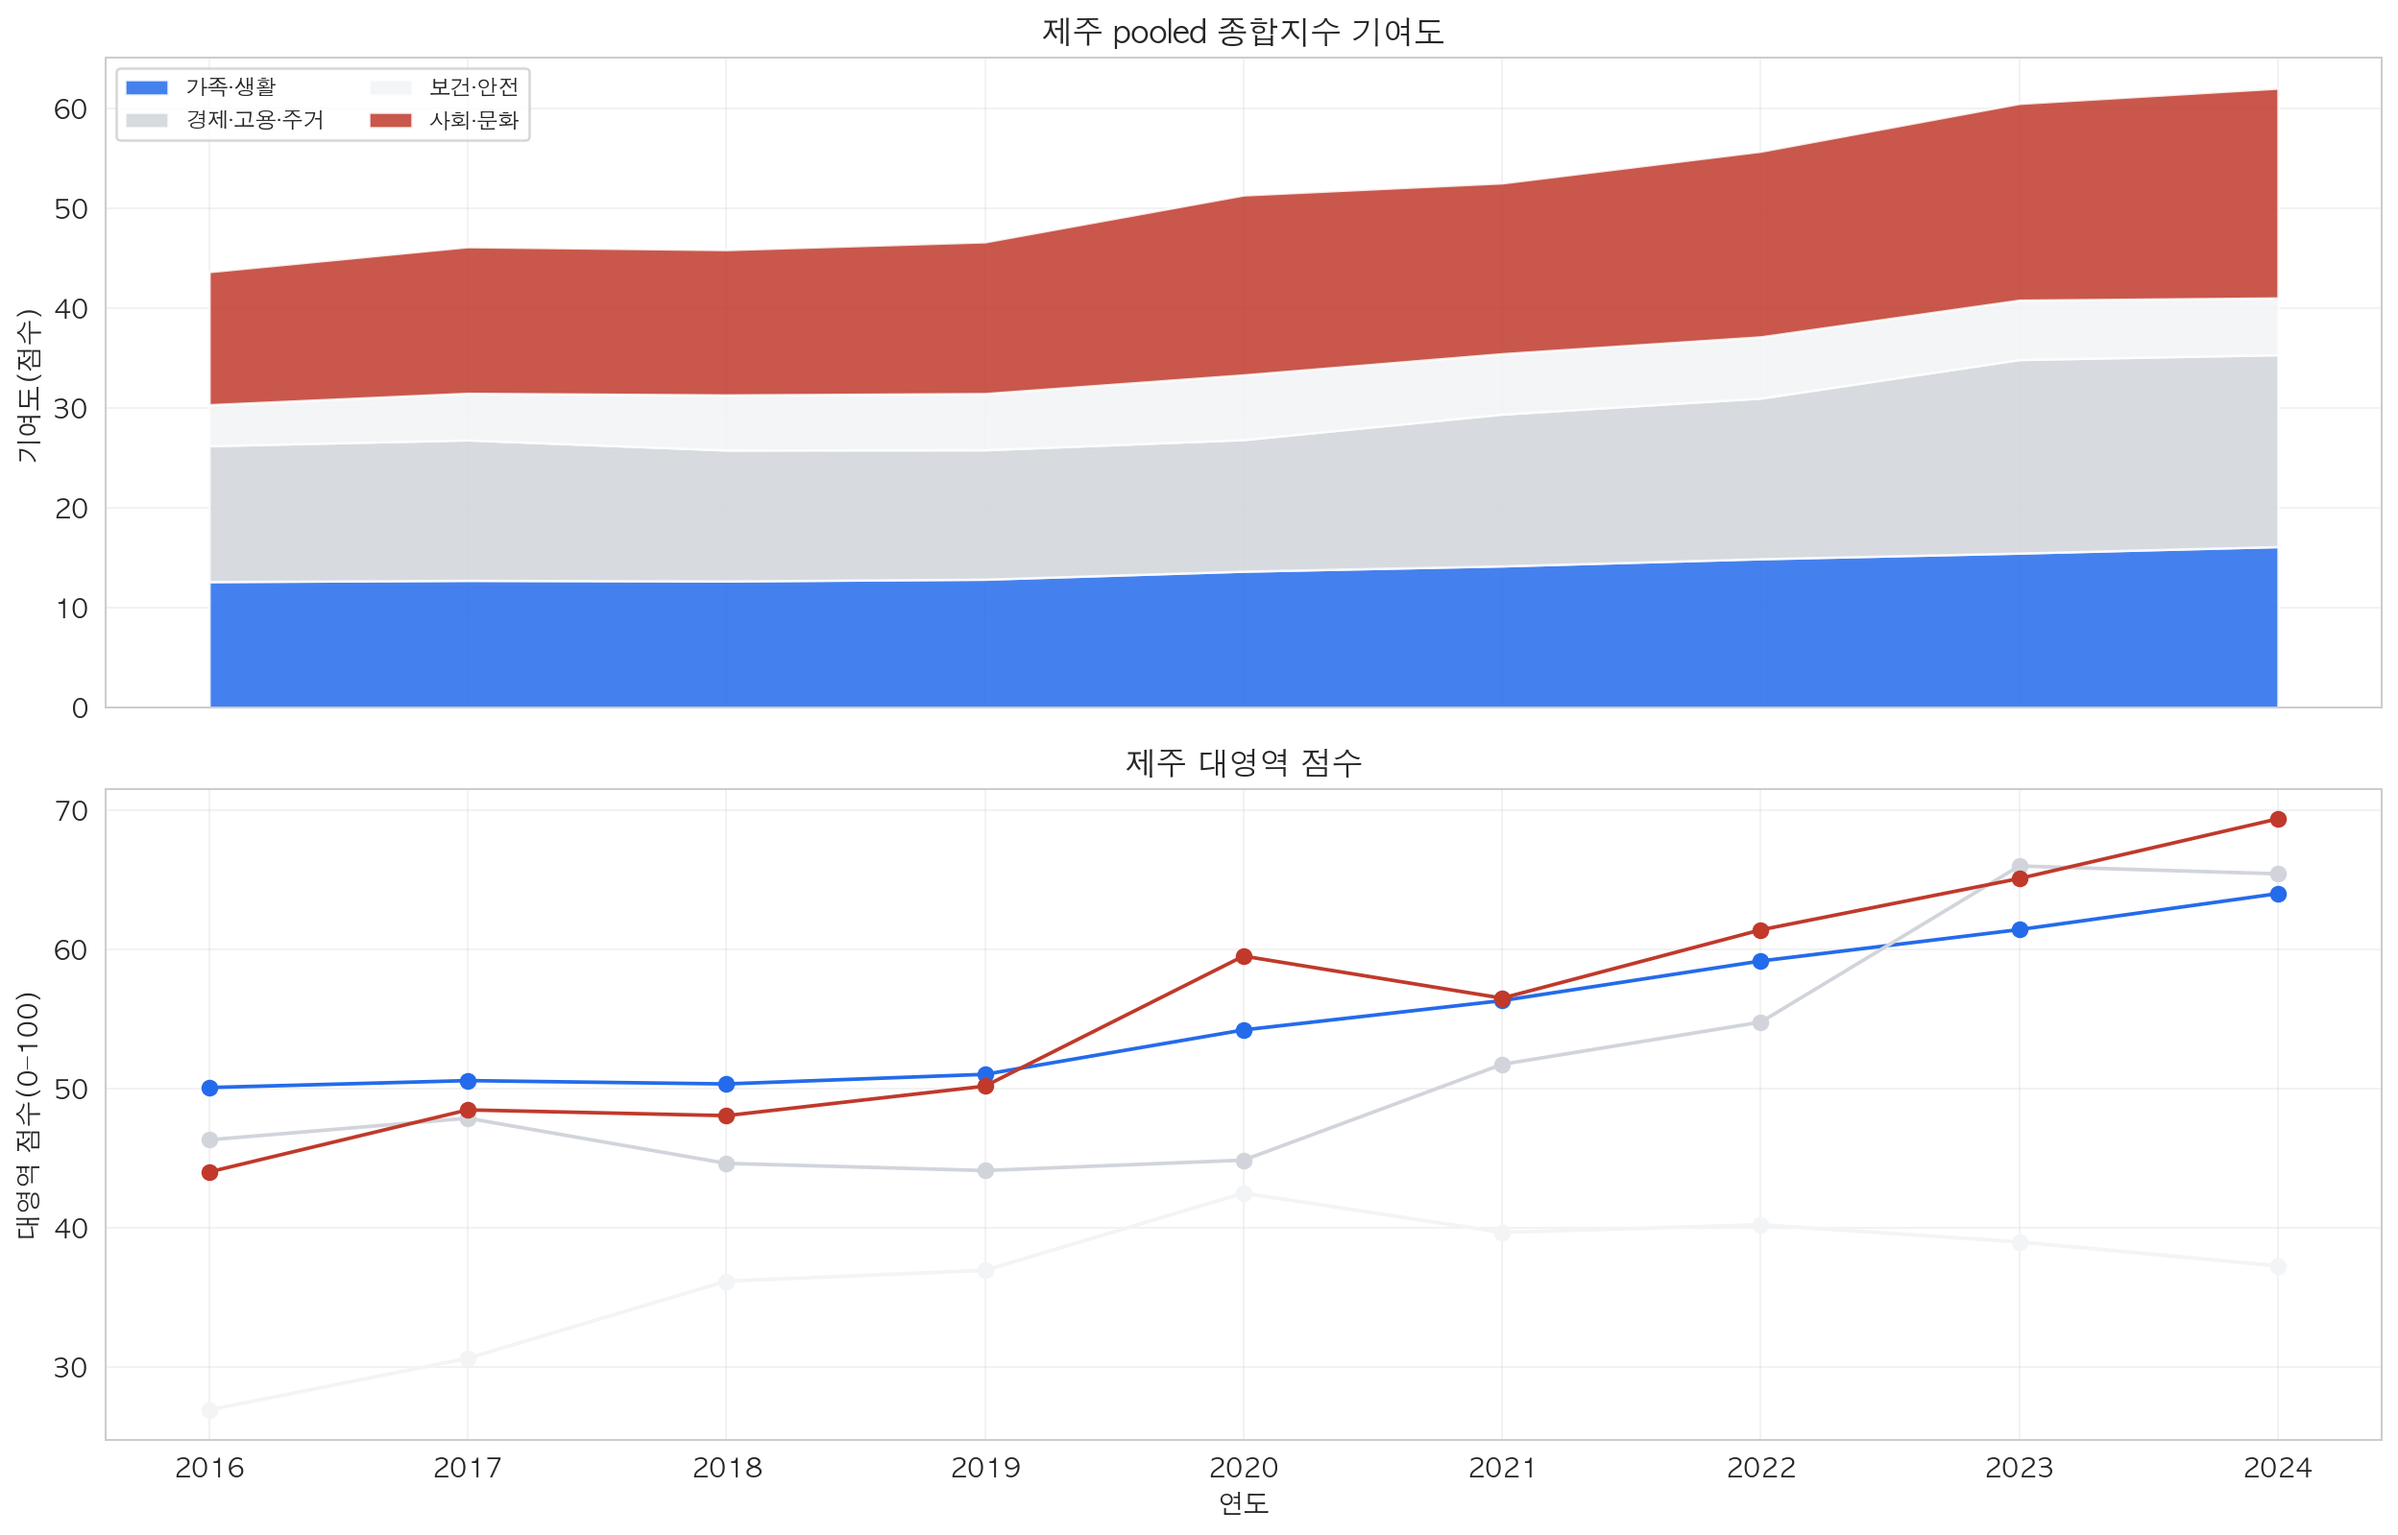
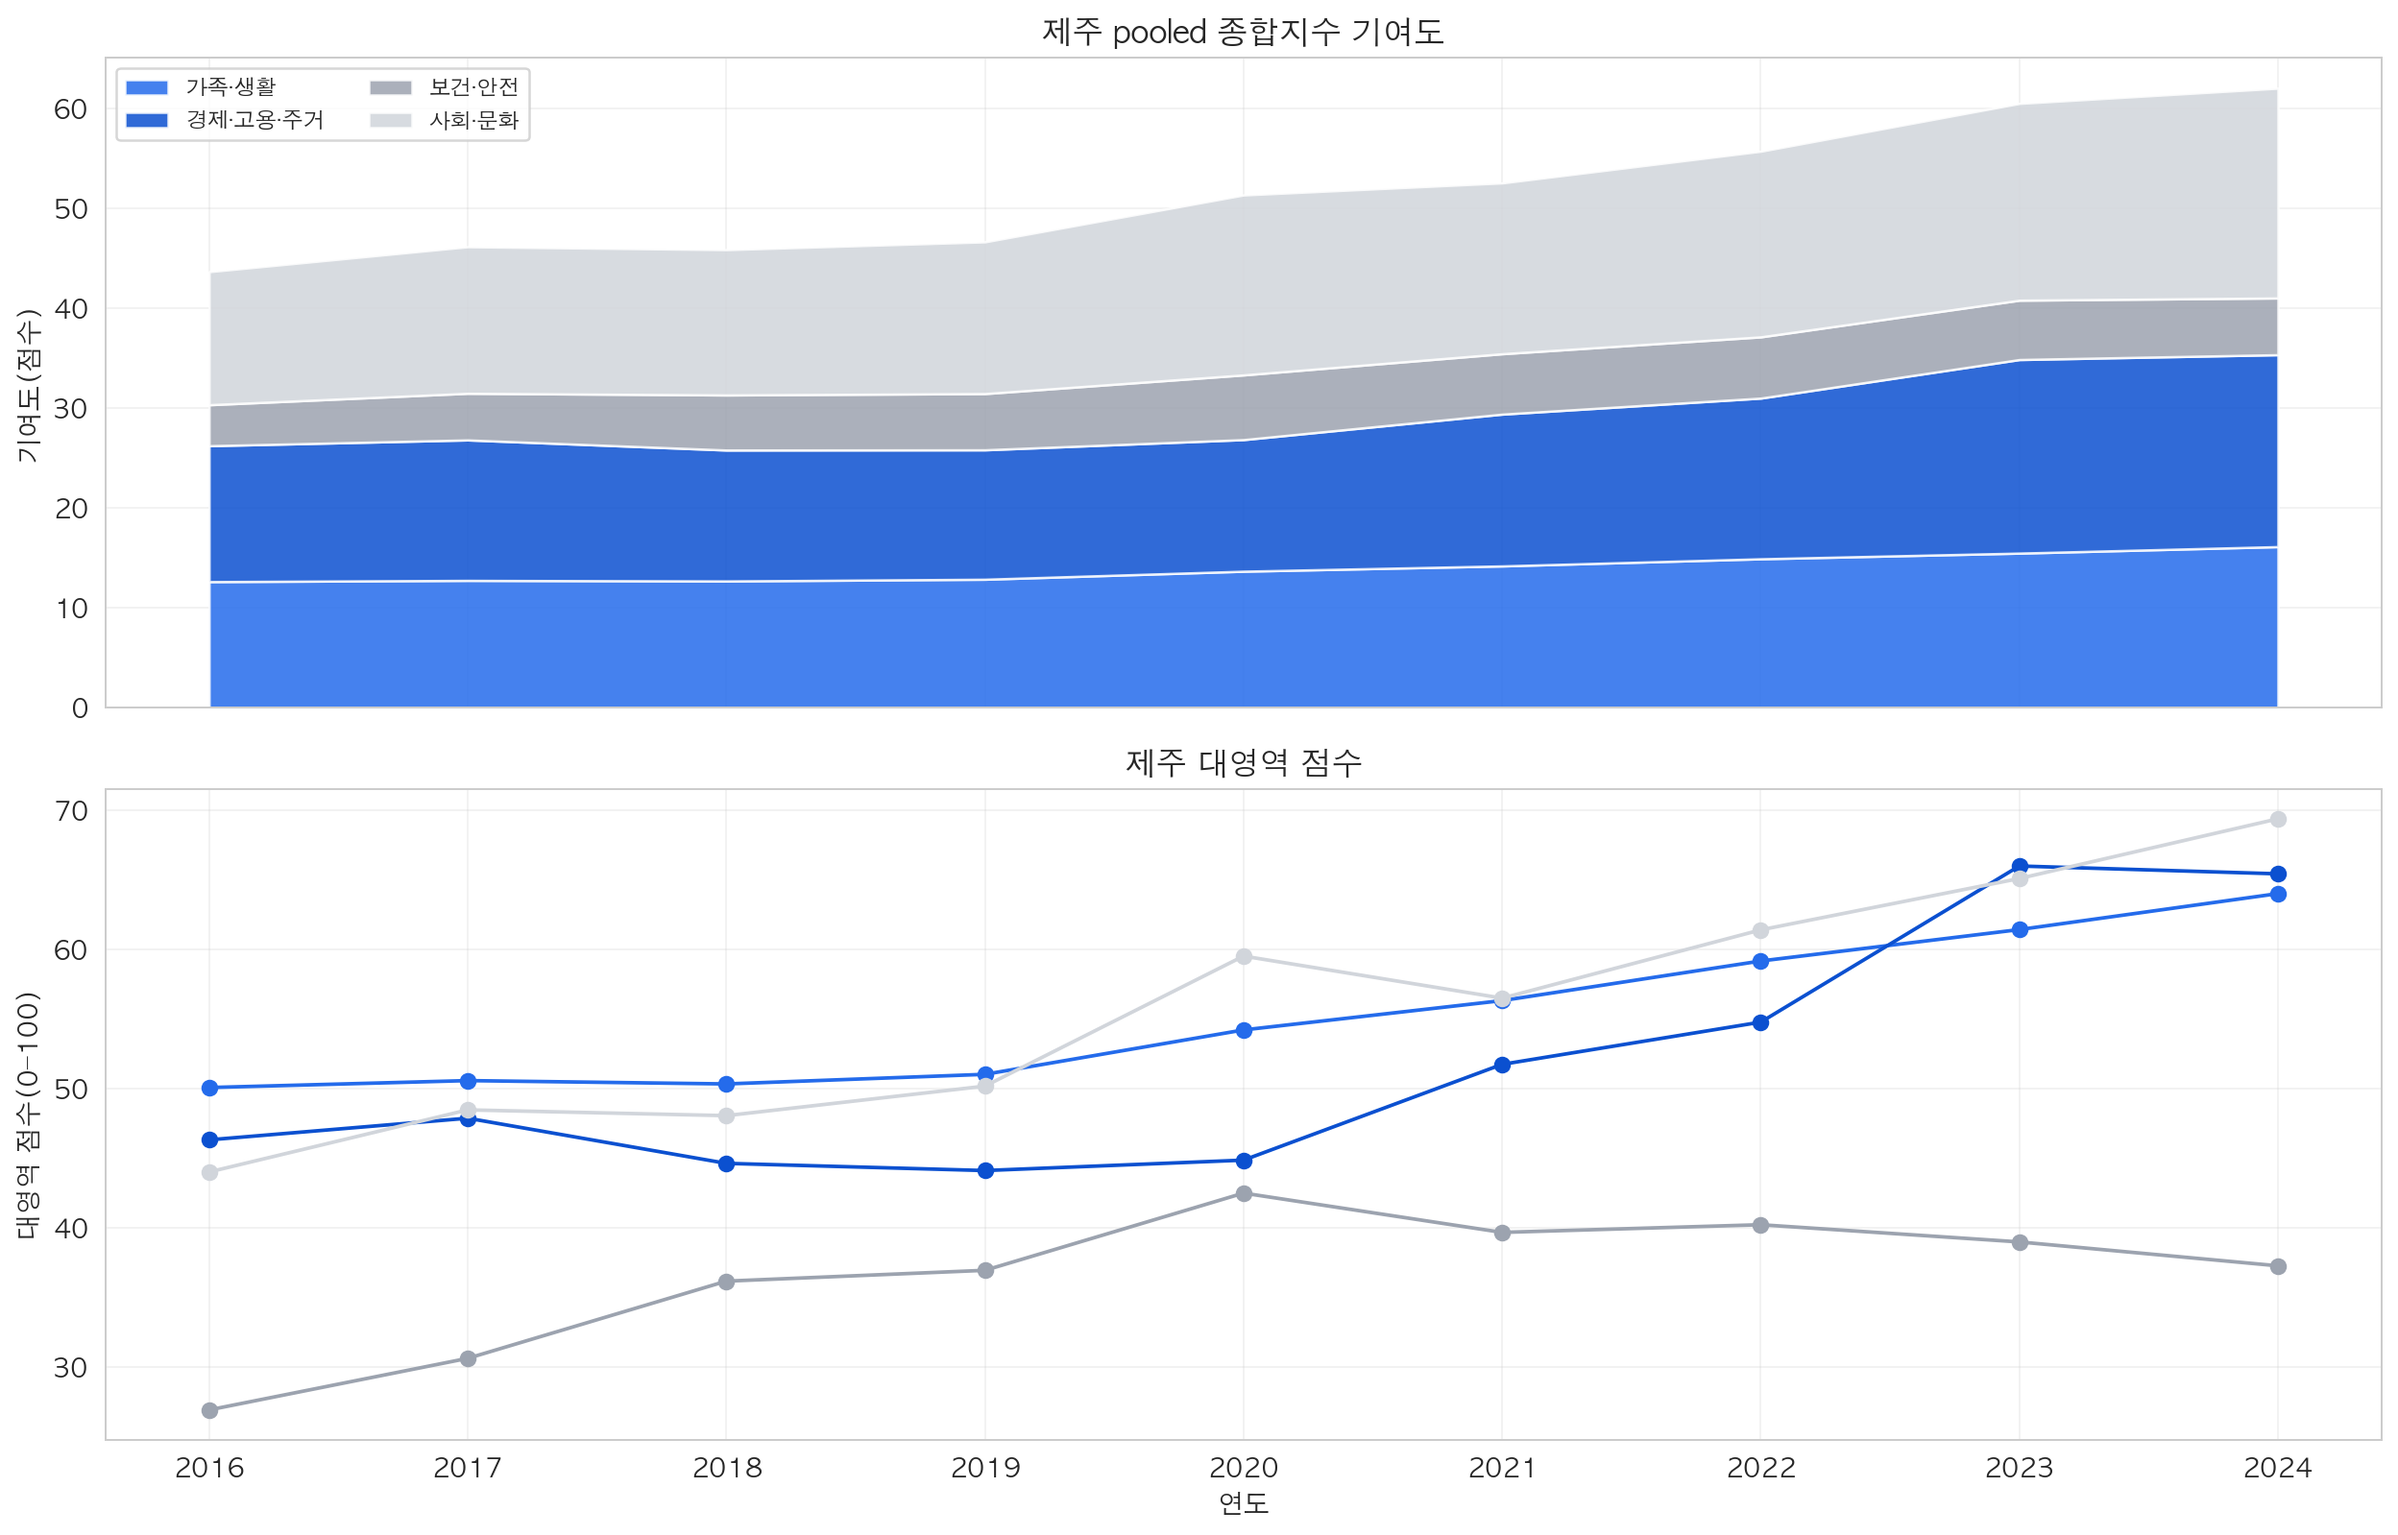
fix: 대영역 기여도 팔레트 개선 (#91)

diff --git a/src/visualization/structural_index.py b/src/visualization/structural_index.py
@@ -15,6 +15,12 @@ from src.visualization.plots import PALETTE, YOMOCHA_WEB_COLORS
 
 INDEX_DIRNAME = "structural_index"
 OUTPUT_DIRNAME = "구조환경지수_시각화"
+CATEGORY_PALETTE = [
+    YOMOCHA_WEB_COLORS["accent"],
+    YOMOCHA_WEB_COLORS["accent_hover"],
+    YOMOCHA_WEB_COLORS["line"],
+    YOMOCHA_WEB_COLORS["muted_bar"],
+]
 
 ARTIFACT_FILES = {
     "pooled_final": "structural_index_pooled_final_index.csv",
@@ -309,7 +315,7 @@ def plot_region_component_comparison(
         DEFAULT_STRUCTURAL_YEARS
     )
     categories = list(contribution.columns)
-    colors = [PALETTE[i % len(PALETTE)] for i in range(len(categories))]
+    colors = [CATEGORY_PALETTE[i % len(CATEGORY_PALETTE)] for i in range(len(categories))]
     fig, axes = plt.subplots(2, 1, figsize=(14, 9), sharex=True)
     axes[0].stackplot(
         contribution.index,
